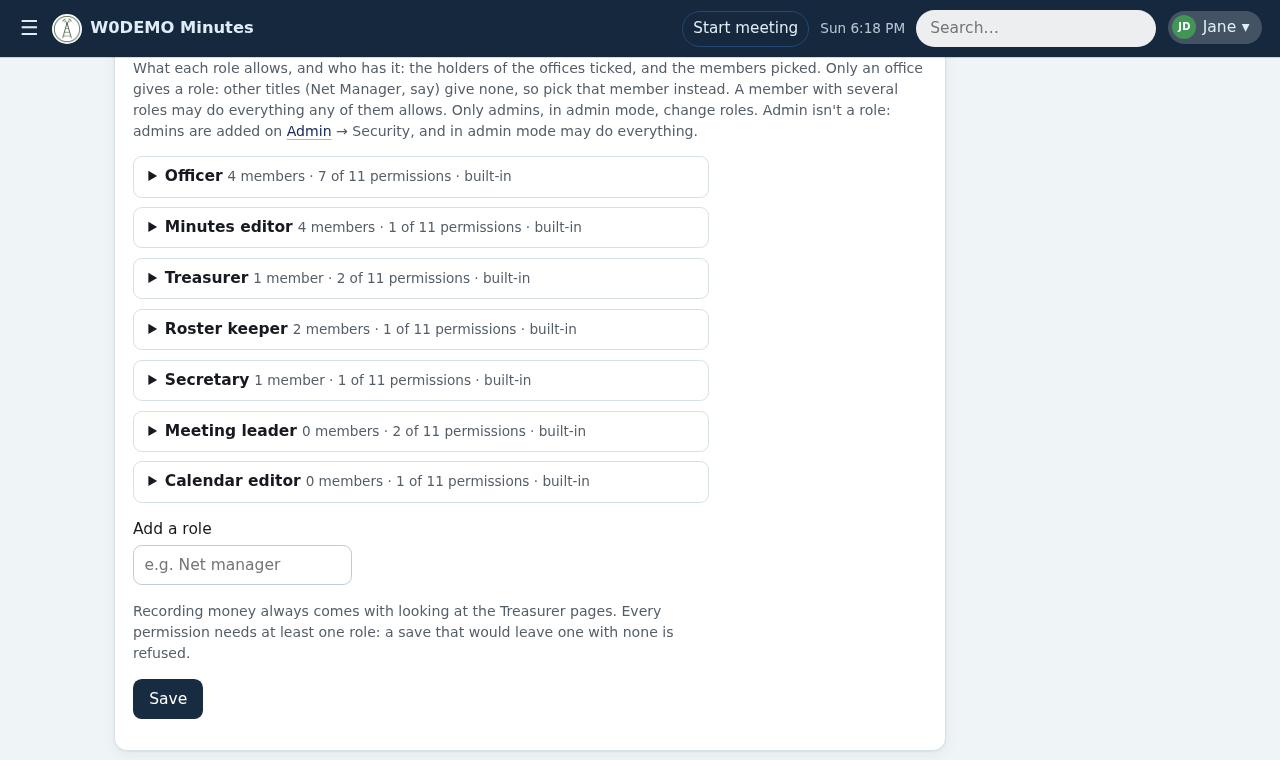
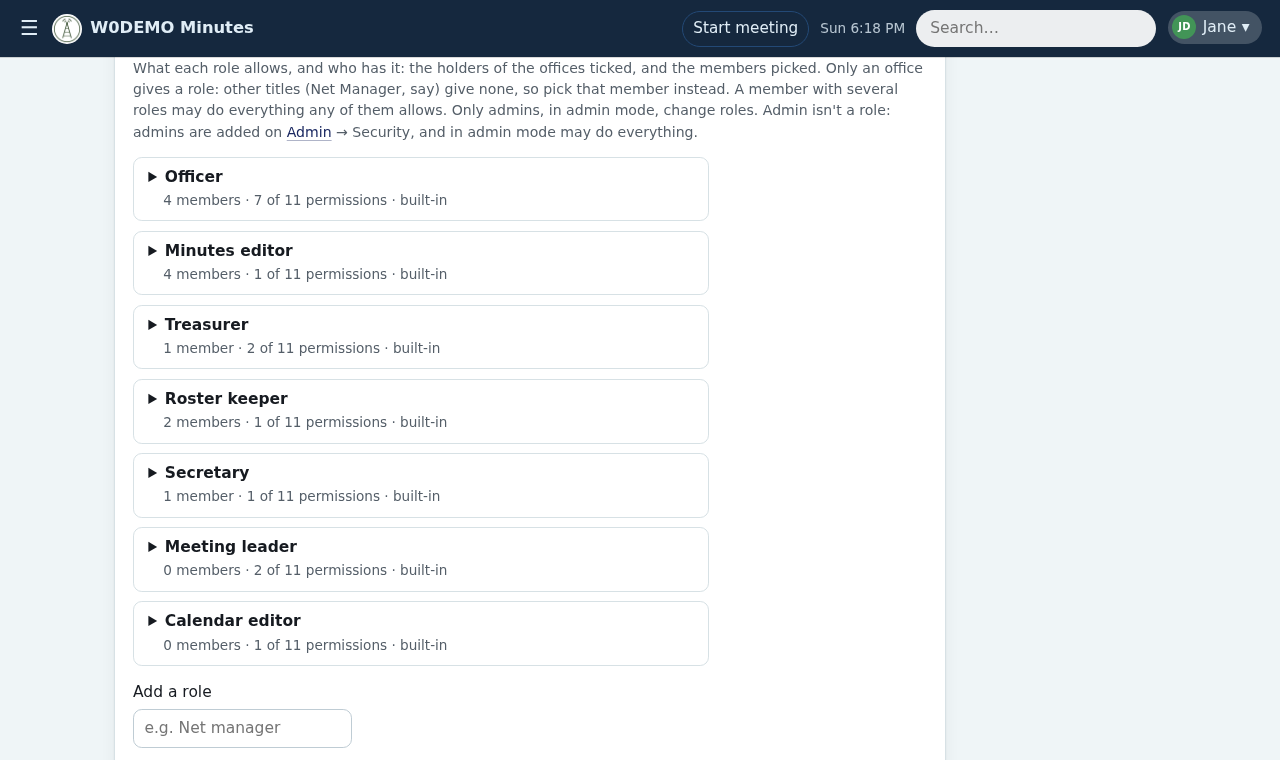
Site → Roles: the offices' Save inside their card, like the roles'; each role's counts on a line of their own under its name
Claude-Session: https://claude.ai/code/session_015owk5TUhbHcRFQXcmfqPQ4

Changed region(s): [[0.0938, 0.1513, 0.5312, 0.7566], [0.0938, 0.7868, 0.7188, 0.9987], [0.4062, 0.1513, 0.5312, 0.1816]]

diff --git a/src/club_minutes/templates/site.html b/src/club_minutes/templates/site.html
@@ -74,15 +74,15 @@
 <template id="t-office">{{ office_row('__i__', {'title': '', 'officer': False, 'seats': 1, 'held': False}) }}</template>
 <p><button type="button" class="btn small" data-add="t-office" data-next="{{ office_rows|length }}" hidden>+ Add an office</button></p>
 <p class="hint">Clear an office's name to remove it. What each office's holders may do is under Roles, below.</p>
-</div>
 <p class="row"><button class="btn">Save</button></p>
+</div>
 </form>
 {% if here_keys|select('in', ['.offices', '.roster_keepers'])|list %}<form method="post" action="/admin/site/offices" data-confirm="Go back to club.yaml's offices?"><input type="hidden" name="back" value="1"><button class="btn small ghost">Back to club.yaml</button></form>{% endif %}
 <div class="card sitesec" id="roles"><h2>Roles</h2>
 <p class="hint">What each role allows, and who has it: the holders of the offices ticked, and the members picked. Only an office gives a role: other titles (Net Manager, say) give none, so pick that member instead. A member with several roles may do everything any of them allows. Only admins, in admin mode, change roles. Admin isn't a role: admins are added on <a href="/admin">Admin</a> → Security, and in admin mode may do everything.</p>
 <form method="post" action="/admin/site/roles" class="profile">
 <div class="rolelist">{% for r in role_rows %}{% set k = r.key %}
-<details class="role"><summary><b>{{ r.name }}</b> <span class="muted small">{{ r.who|length }} {{ 'member' if r.who|length == 1 else 'members' }} · {{ r.perms|length }} of {{ permissions|length }} permissions{{ ' · built-in' if r.builtin }}{{ ', changed' if r.edited and r.builtin }}</span></summary>
+<details class="role"><summary><b>{{ r.name }}</b><br><span class="muted small">{{ r.who|length }} {{ 'member' if r.who|length == 1 else 'members' }} · {{ r.perms|length }} of {{ permissions|length }} permissions{{ ' · built-in' if r.builtin }}{{ ', changed' if r.edited and r.builtin }}</span></summary>
   <input type="hidden" name="key" value="{{ k }}">
   <label class="small">Name <input name="name.{{ k }}" value="{{ r.name }}" maxlength="40"></label>
   <fieldset><legend class="small"><b>Allows</b></legend>

diff --git a/src/club_minutes/static/style.css b/src/club_minutes/static/style.css
@@ -628,7 +628,7 @@ form .sitesec label.check { display: flex; width: 100%; gap: .6rem; align-items:
 .rolelist { display: grid; gap: .6rem; }
 .rolelist details.role { border: 1px solid var(--border); border-radius: var(--radius-sm); background: var(--surface); padding: .5rem .9rem; }
 .rolelist details.role[open] > summary { margin-bottom: .4rem; } .rolelist .role p { margin: .3rem 0; }
-.rolelist .role summary { cursor: pointer; } .rolelist .role fieldset { margin: .5rem 0; }
+.rolelist .role summary { cursor: pointer; } .rolelist .role summary span { display: inline-block; margin-left: 1.1em; } .rolelist .role fieldset { margin: .5rem 0; }
 .rolelist .role fieldset label.check { display: flex; gap: .4rem; margin: .15rem 0; }
 .officegrid input[type=number] { width: 4rem; } .officegrid input[readonly] { background: var(--surface-2); }
 @media (max-width: 560px) { .officegrid { gap: .45rem .6rem; } .officegrid .agh { font-size: .7rem; line-height: 1.2; } }
